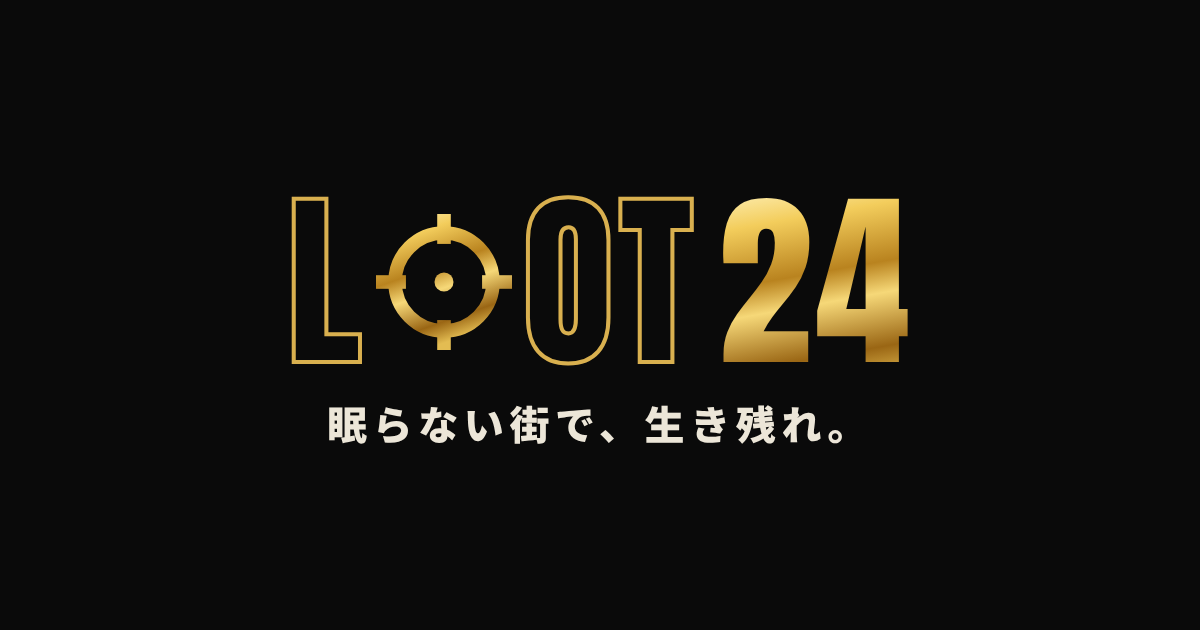
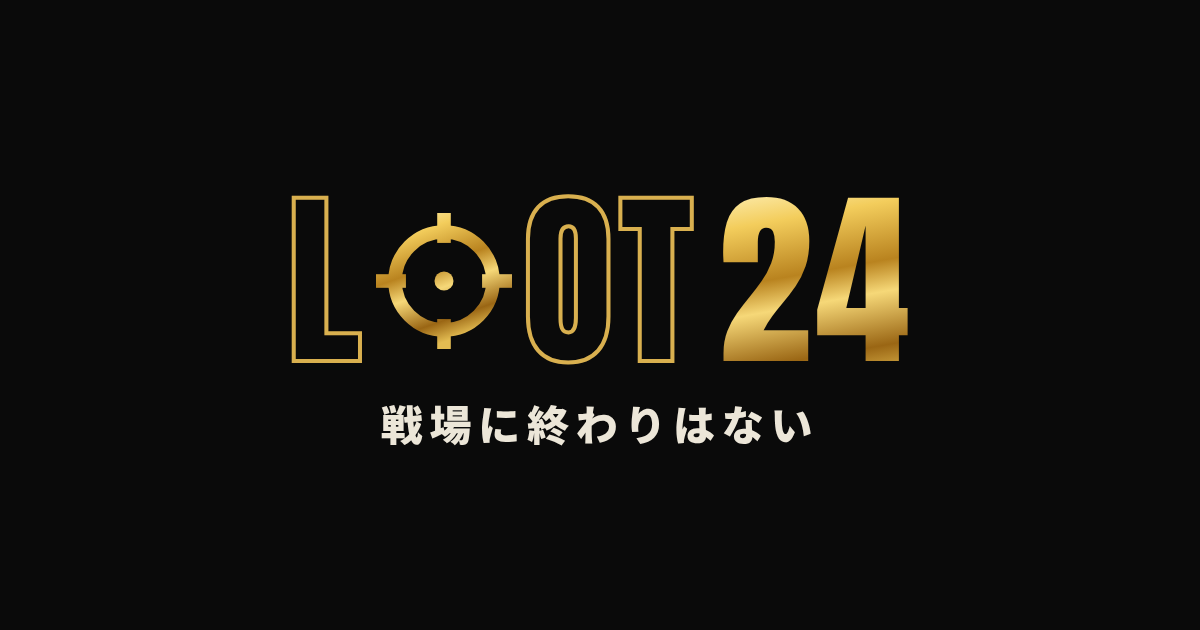
キャッチコピーを変更

diff --git a/index.html b/index.html
@@ -9,7 +9,7 @@
 <meta property="og:type" content="website">
 <meta property="og:site_name" content="LOOT24">
 <meta property="og:title" content="LOOT24｜オンライン対戦サバイバル">
-<meta property="og:description" content="制限時間なし、いつでも途中参加。眠らない街で、生き残れ。PC（Steam）向けに開発中。">
+<meta property="og:description" content="制限時間なし、いつでも途中参加。戦場に終わりはない。PC（Steam）向けに開発中。">
 <meta property="og:url" content="https://loot24.jp/">
 <meta property="og:image" content="https://loot24.jp/ogp.png">
 <meta name="twitter:card" content="summary_large_image">
@@ -162,7 +162,7 @@ footer p{margin:4px 0}
     <span class="num" aria-hidden="true">24</span>
   </h1>
 
-  <p class="catch">眠らない街で、生き残れ。</p>
+  <p class="catch">戦場に終わりはない</p>
   <p class="sub">オンライン対戦サバイバル</p>
 
   <div class="cta">
